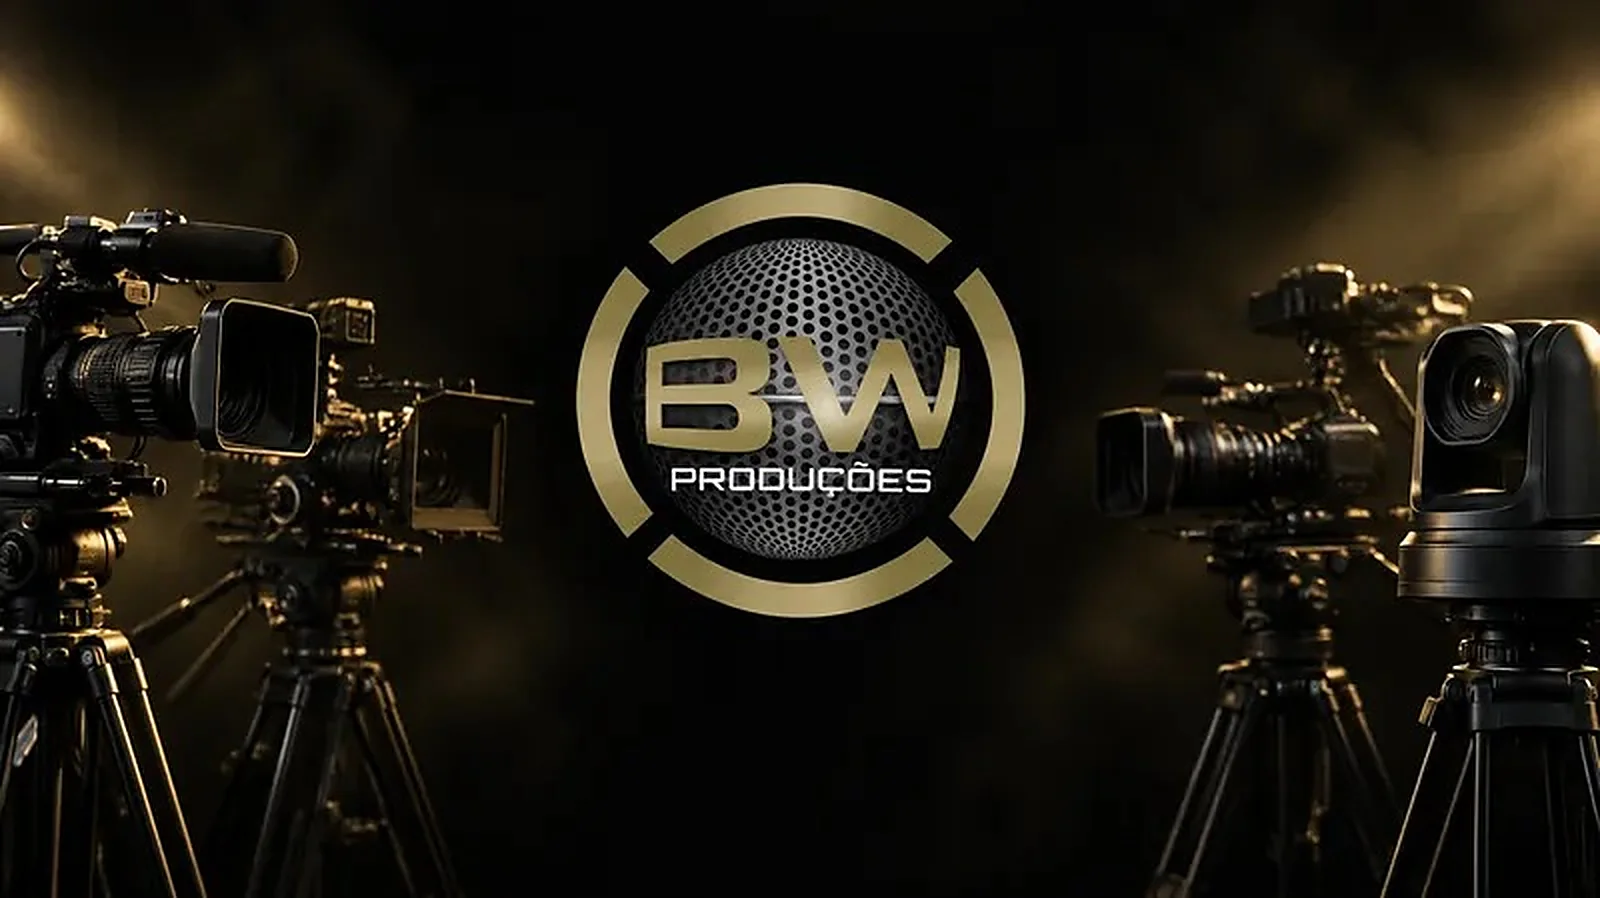
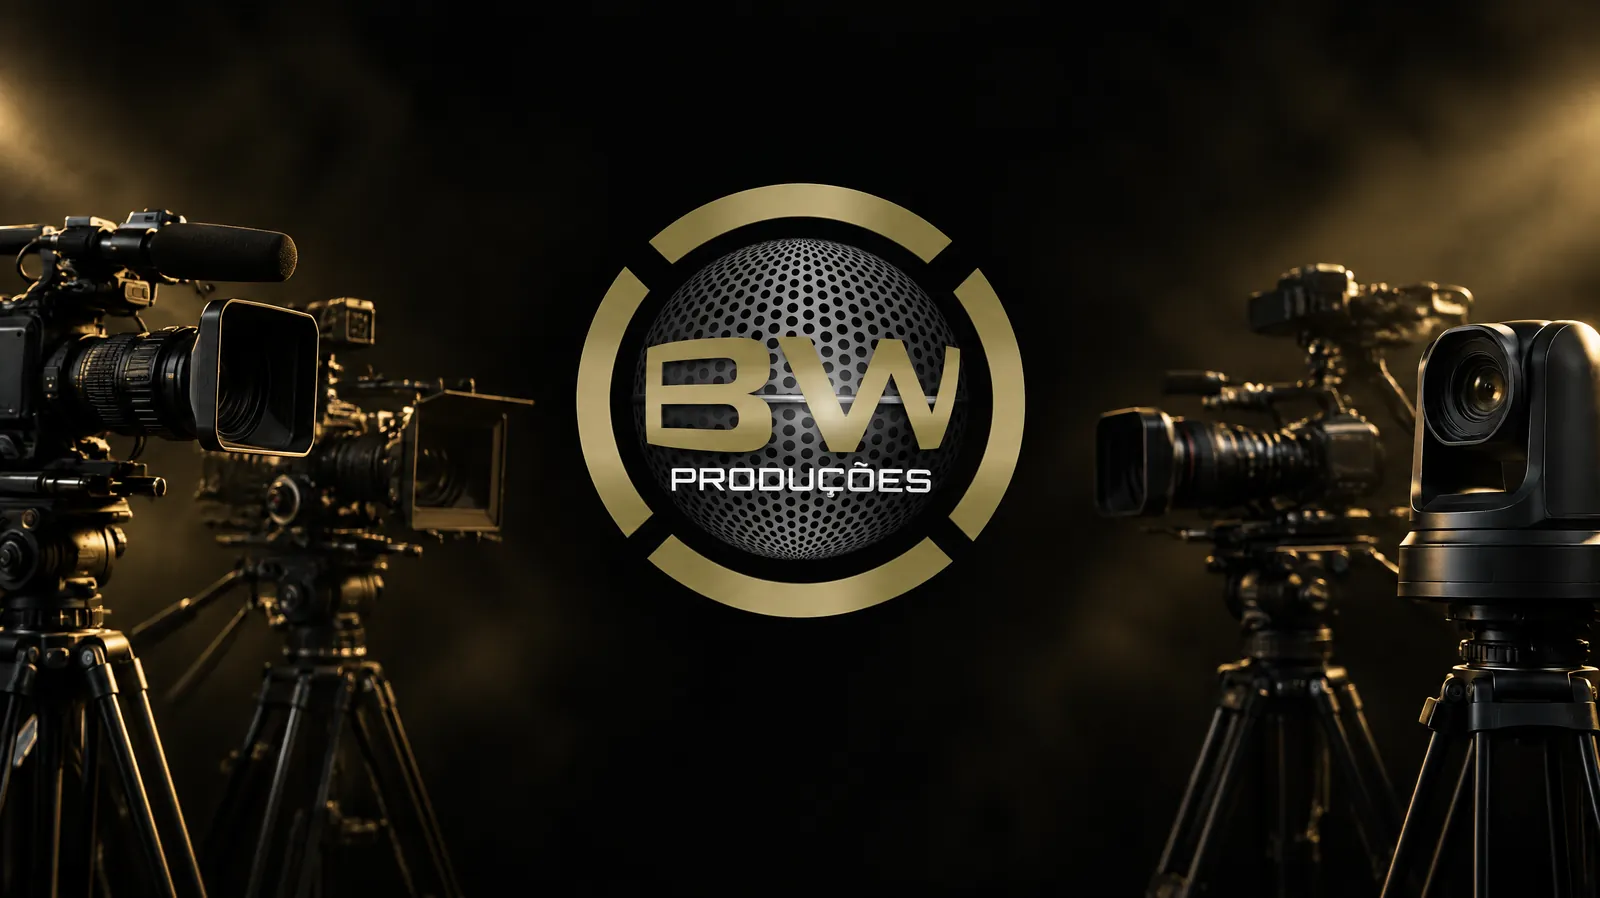
Capa do Início com a montagem em alta resolução
Claude-Session: https://claude.ai/code/session_01V74hggL89ALMSXWDUeUTpY

diff --git a/index.html b/index.html
@@ -38,7 +38,7 @@
 <a href="contato.html" class="bw-cta">Pedir orçamento<svg width="16" height="16" viewBox="0 0 24 24" fill="none" stroke="currentColor" stroke-width="1.8" stroke-linecap="round" stroke-linejoin="round" aria-hidden="true"><path d="M5 12h14M13 6l6 6-6 6"/></svg></a>
 </div>
 </header><main id="conteudo"><section id="hero" class="hero-capa">
-<div class="hero-cover"><img src="assets/img/hero-cameras-1600.webp" srcset="assets/img/hero-cameras-800.webp 800w, assets/img/hero-cameras.webp 1200w, assets/img/hero-cameras-1600.webp 1600w" sizes="100vw" width="1600" height="898" alt="Logo da BW Produções entre câmeras profissionais de filmagem" fetchpriority="high"></div>
+<div class="hero-cover"><img src="assets/img/hero-cameras-1600.webp" srcset="assets/img/hero-cameras-800.webp 800w, assets/img/hero-cameras-1200.webp 1200w, assets/img/hero-cameras-1600.webp 1600w, assets/img/hero-cameras-2400.webp 2400w" sizes="100vw" width="2400" height="1347" alt="Logo da BW Produções entre câmeras profissionais de filmagem" fetchpriority="high"></div>
 <div class="hero-txt">
 <div style="display: flex; align-items: center; justify-content: center; gap: 14px"><span style="width: 40px; height: 2px; background: #857B40"></span><span style="font-family: Montserrat, sans-serif; font-size: 12px; font-weight: 700; letter-spacing: 0.28em; color: #857B40; text-transform: uppercase">Áudio &amp; vídeo · Eventos · Ao vivo</span><span style="width: 40px; height: 2px; background: #857B40"></span></div>
 <h1 style="margin: 0; font-family: Montserrat, sans-serif; font-weight: 800; font-size: clamp(38px, 5vw, 64px); line-height: 1.06; letter-spacing: -0.02em; color: #FAF9F7">Do palco para qualquer tela, com qualidade de <span style="color: #857B40">broadcast</span>.</h1>
